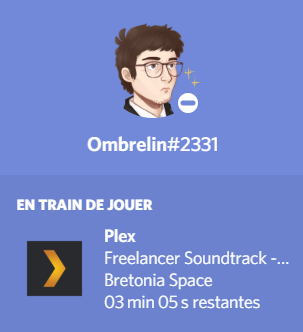
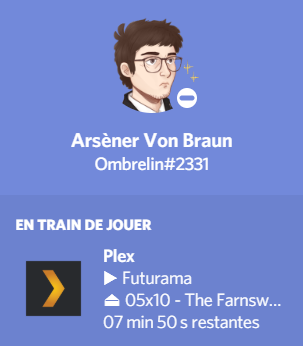
release 1.3

diff --git a/README.md b/README.md
@@ -7,7 +7,7 @@ Plex Rich Presence works with Java 8.
 
 ## Release Version
 
-- [Portable and Executable JAR](https://github.com/Ombrelin/plex-rich-presence/releases/download/v1.3/plex-rich-presence-1.3.jar)
+- [Portable and Executable JAR](https://github.com/Ombrelin/plex-rich-presence/releases/download/v1.3/plex-rich-presence-1.4.jar)
 - [Windows Installer](https://github.com/Ombrelin/plex-rich-presence/releases/download/v1.3/plex-rich-presence-setup.exe)
 
 ## Screenshots
@@ -16,6 +16,8 @@ Plex Rich Presence works with Java 8.
 
 
 ![screenshots](screenshots/ui-logs.png)
+
+![screenshots](screenshots/discord.png)
 
 ## Build
 
@@ -30,7 +32,7 @@ mvn clean package
 Once build, you can run the app by running :
 
 ```
-java -jar ./target/plex-rich-presence-1.3.jar
+java -jar ./target/plex-rich-presence-1.4.jar
 ```
 
 ## Libraries used
